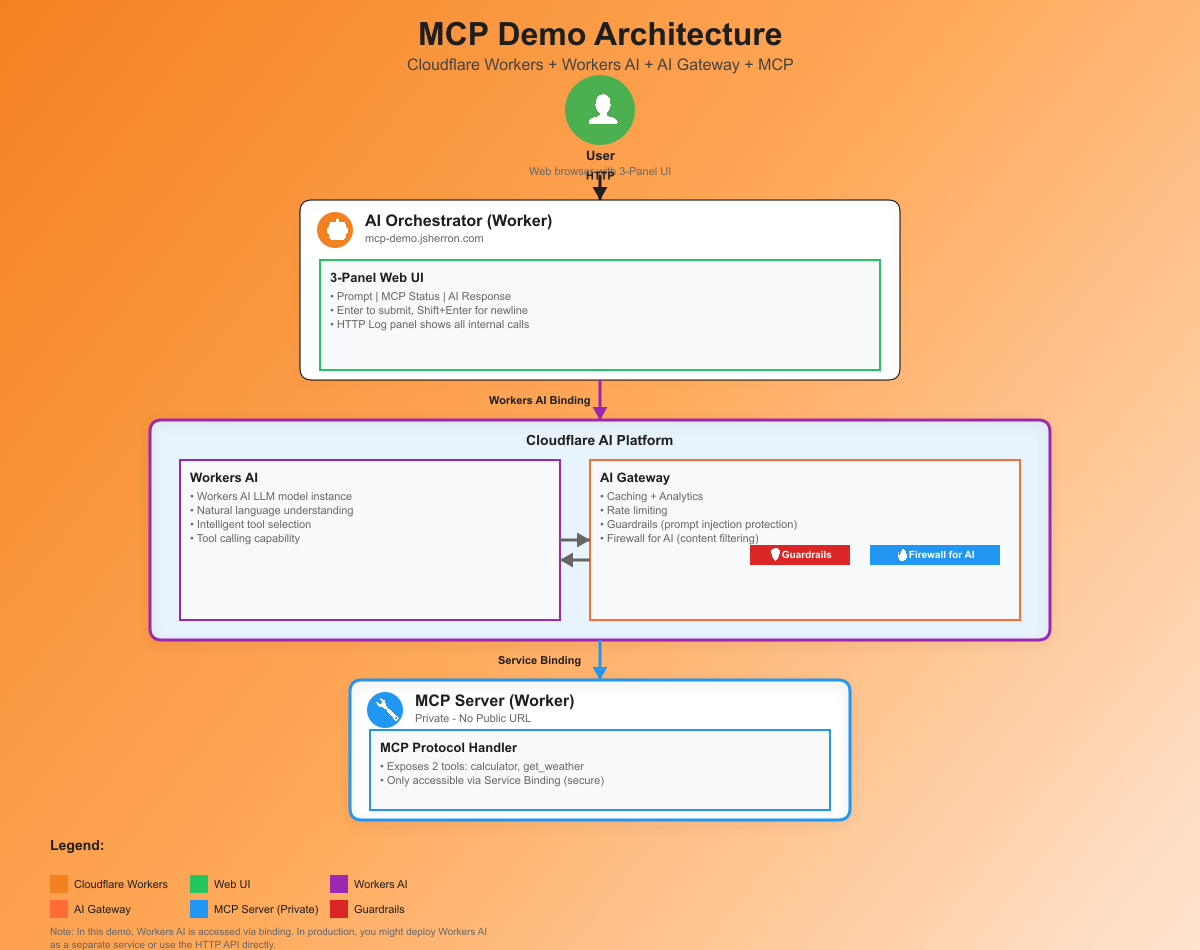
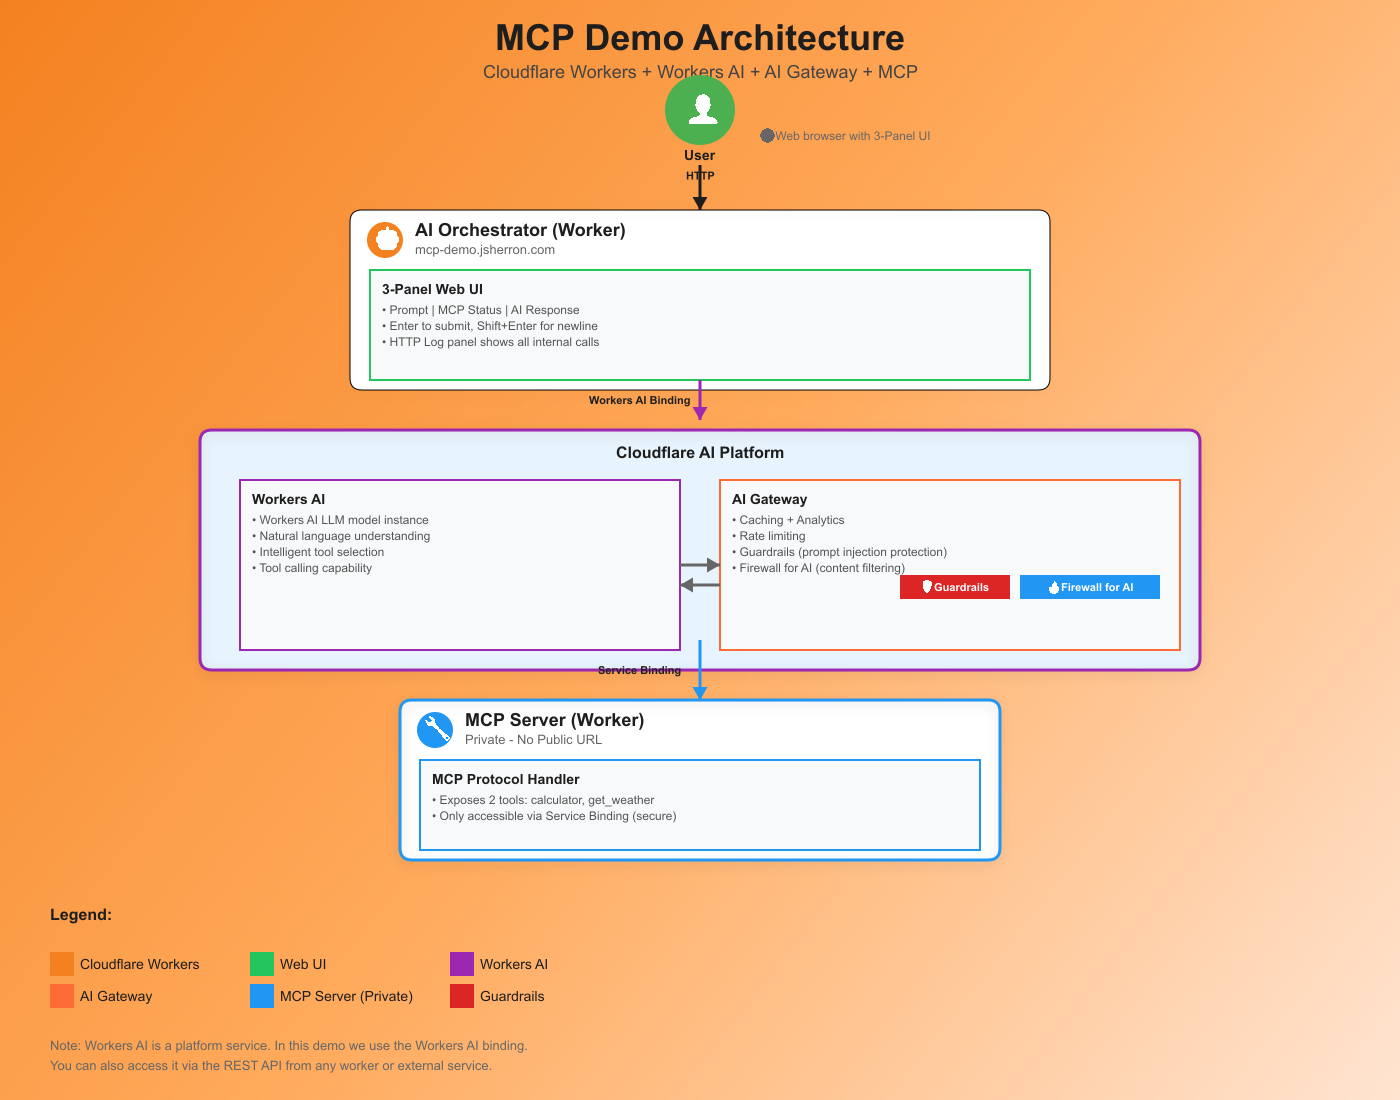
docs: fix Workers AI note - it's a platform service, not something you deploy

Changed region(s): [[0.0308, 0.0, 0.8942, 1.0]]

diff --git a/README.md b/README.md
@@ -53,7 +53,7 @@ Open the AI Orchestrator Web UI and type a message to see the MCP protocol in ac
 └─────────────────────────────────────────────────────────────┘
 ```
 
-**¹ Note:** In this demo, Workers AI is accessed via binding from the AI Orchestrator worker. In production, you might deploy Workers AI as a separate service or use the HTTP API directly.
+**¹ Note:** Workers AI is a Cloudflare platform service. In this demo we access it via binding from the AI Orchestrator worker. You can also call it via the REST API from any worker or external service.
 
 ### Why Service Bindings?
 
